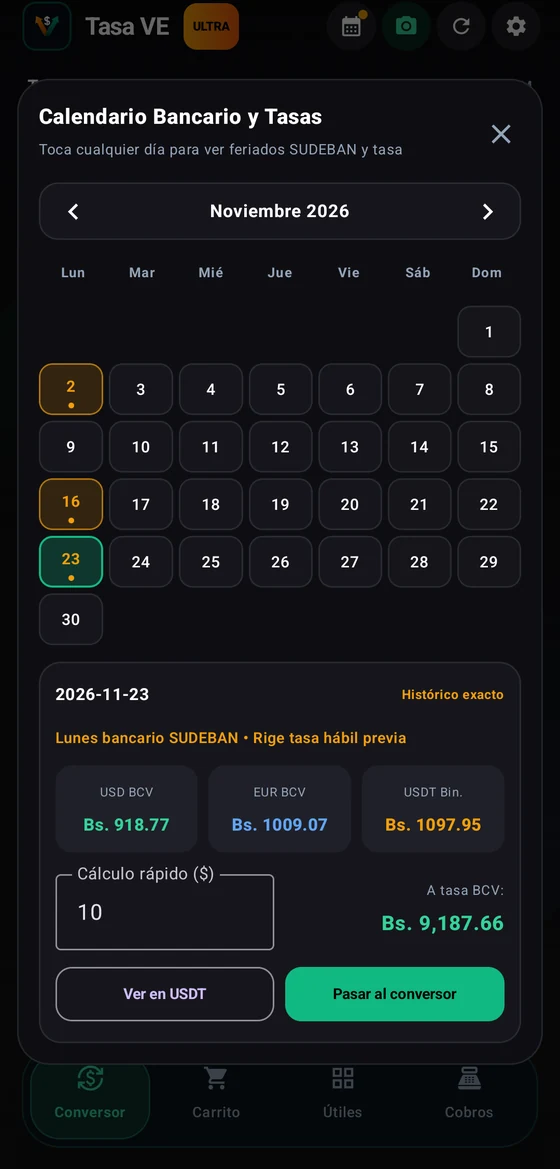
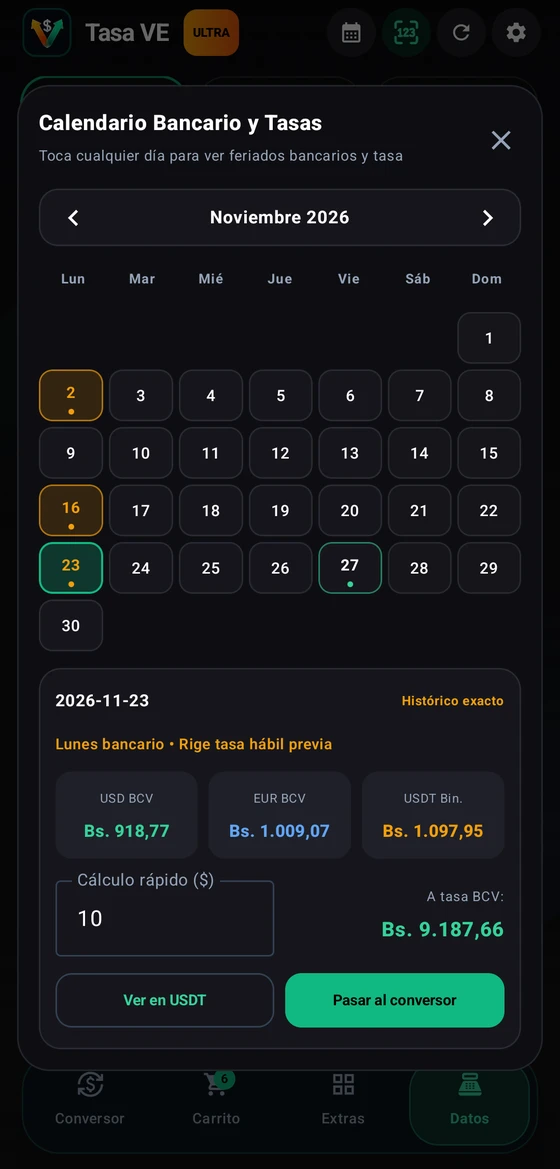
feat: rename Utiles tab to Extras, trim repetitive web disclaimers, refresh all 7 emulator marketing screenshots with zero personal data

diff --git a/docs/index.html b/docs/index.html
@@ -42,7 +42,7 @@
   <link rel="preconnect" href="https://fonts.googleapis.com">
   <link rel="preconnect" href="https://fonts.gstatic.com" crossorigin>
   <link href="https://fonts.googleapis.com/css2?family=Plus+Jakarta+Sans:wght@400;500;600;700;800&display=swap" rel="stylesheet">
-  <link rel="stylesheet" href="styles.css?v=20261126e">
+  <link rel="stylesheet" href="styles.css?v=20261127">
 
   <!-- JSON-LD Structured Data (SoftwareApplication + WebSite + FAQPage for Rich SEO) -->
   <script type="application/ld+json">
@@ -250,16 +250,16 @@
                     <svg viewBox="0 0 22 12" width="17" height="9" fill="none"><rect x="0.75" y="1.25" width="17.5" height="9.5" rx="2.5" stroke="currentColor" stroke-width="1.3"/><rect x="2.6" y="3" width="13.8" height="6" rx="1.2" fill="currentColor"/><rect x="19.5" y="4" width="1.8" height="4" rx="0.8" fill="currentColor"/></svg>
                   </span>
                 </div>
-                <img id="hero-device-img" src="assets/screens/screen_conversor.webp" alt="Captura real del conversor multitasa de Tasa VE" width="560" height="1169" fetchpriority="high">
+                <img id="hero-device-img" src="assets/screens/screen_conversor.webp?v=20261127" alt="Captura real del conversor multitasa de Tasa VE" width="560" height="1169" fetchpriority="high">
                 <div class="device-homebar" aria-hidden="true"><span></span></div>
               </div>
             </div>
 
             <div class="hero-screen-dock" role="tablist" aria-label="Capturas reales de Tasa VE">
-              <button type="button" class="dock-btn is-active" data-hero-screen="assets/screens/screen_conversor.webp" data-hero-alt="Captura real del conversor multitasa de Tasa VE">Conversor</button>
-              <button type="button" class="dock-btn" data-hero-screen="assets/screens/screen_cobros.webp" data-hero-alt="Captura real de la sección Datos y cálculos mixtos en Tasa VE">Datos</button>
-              <button type="button" class="dock-btn" data-hero-screen="assets/screens/screen_flotante.webp" data-hero-alt="Acceso rápido flotante real de Tasa VE sobre WhatsApp">Acceso flotante</button>
-              <button type="button" class="dock-btn" data-hero-screen="assets/screens/screen_tarjeta.webp" data-hero-alt="Instrucciones de pago personalizadas generadas por Tasa VE">Instrucciones</button>
+              <button type="button" class="dock-btn is-active" data-hero-screen="assets/screens/screen_conversor.webp?v=20261127" data-hero-alt="Captura real del conversor multitasa de Tasa VE">Conversor</button>
+              <button type="button" class="dock-btn" data-hero-screen="assets/screens/screen_cobros.webp?v=20261127" data-hero-alt="Captura real de la sección Datos y cálculos mixtos en Tasa VE">Datos</button>
+              <button type="button" class="dock-btn" data-hero-screen="assets/screens/screen_flotante.webp?v=20261127" data-hero-alt="Acceso rápido flotante real de Tasa VE">Acceso flotante</button>
+              <button type="button" class="dock-btn" data-hero-screen="assets/screens/screen_tarjeta.webp?v=20261127" data-hero-alt="Instrucciones de pago personalizadas generadas por Tasa VE">Instrucciones</button>
             </div>
           </div>
         </div>
@@ -299,7 +299,7 @@
       <div class="container">
         <header class="section-intro">
           <h2>Diseñada para tus cálculos diarios en Venezuela</h2>
-          <p>Capturas reales de la aplicación. Apta para todo público —desde tus compras cotidianas hasta emprendedores y pequeños comerciantes—. Tasa VE solo calcula y organiza montos; nunca maneja dinero ni ejecuta transacciones.</p>
+          <p>Capturas reales de la aplicación. Pensada para todo público —desde tus compras cotidianas hasta emprendedores y pequeños comerciantes—.</p>
         </header>
 
         <div class="bento-grid">
@@ -314,9 +314,9 @@
                   y comparte tus instrucciones de pago personalizadas acompañadas únicamente de los datos necesarios para autocompletar en BDV, Banesco, Mercantil o Bancamiga al hacer o recibir un pago.
                 </p>
                 <div class="bento-switcher" data-spotlight-group="bento-pay">
-                  <button type="button" class="mini-pill is-active" data-src="assets/screens/screen_cobros.webp" data-alt="Sección Datos y cálculos mixtos real de Tasa VE">Datos</button>
-                  <button type="button" class="mini-pill" data-src="assets/screens/screen_tarjeta.webp" data-alt="Instrucciones de pago personalizadas generadas por Tasa VE">Instrucciones</button>
-                  <button type="button" class="mini-pill" data-src="assets/screens/screen_flotante.webp" data-alt="Acceso rápido flotante sobre WhatsApp en Tasa VE">Acceso flotante</button>
+                  <button type="button" class="mini-pill is-active" data-src="assets/screens/screen_cobros.webp?v=20261127" data-alt="Sección Datos y cálculos mixtos real de Tasa VE">Datos</button>
+                  <button type="button" class="mini-pill" data-src="assets/screens/screen_tarjeta.webp?v=20261127" data-alt="Instrucciones de pago personalizadas generadas por Tasa VE">Instrucciones</button>
+                  <button type="button" class="mini-pill" data-src="assets/screens/screen_flotante.webp?v=20261127" data-alt="Acceso rápido flotante real de Tasa VE">Acceso flotante</button>
                 </div>
               </div>
               <div class="bento-device">
@@ -330,7 +330,7 @@
                         <svg viewBox="0 0 22 12" width="15" height="8" fill="none"><rect x="0.75" y="1.25" width="17.5" height="9.5" rx="2.5" stroke="currentColor" stroke-width="1.3"/><rect x="2.6" y="3" width="13.8" height="6" rx="1.2" fill="currentColor"/><rect x="19.5" y="4" width="1.8" height="4" rx="0.8" fill="currentColor"/></svg>
                       </span>
                     </div>
-                    <img id="bento-pay-img" src="assets/screens/screen_cobros.webp" alt="Sección Datos y cálculos mixtos real de Tasa VE" width="560" height="1169" loading="lazy">
+                    <img id="bento-pay-img" src="assets/screens/screen_cobros.webp?v=20261127" alt="Sección Datos y cálculos mixtos real de Tasa VE" width="560" height="1169" loading="lazy">
                   </div>
                 </div>
               </div>
@@ -355,7 +355,7 @@
                         <svg viewBox="0 0 22 12" width="15" height="8" fill="none"><rect x="0.75" y="1.25" width="17.5" height="9.5" rx="2.5" stroke="currentColor" stroke-width="1.3"/><rect x="2.6" y="3" width="13.8" height="6" rx="1.2" fill="currentColor"/><rect x="19.5" y="4" width="1.8" height="4" rx="0.8" fill="currentColor"/></svg>
                       </span>
                     </div>
-                    <img src="assets/screens/screen_calendario.webp" alt="Calendario Bancario e historial de tasas BCV en Tasa VE" width="560" height="1169" loading="lazy">
+                    <img src="assets/screens/screen_calendario.webp?v=20261127" alt="Calendario Bancario e historial de tasas BCV en Tasa VE" width="560" height="1169" loading="lazy">
                   </div>
                 </div>
               </div>
@@ -380,7 +380,7 @@
                         <svg viewBox="0 0 22 12" width="15" height="8" fill="none"><rect x="0.75" y="1.25" width="17.5" height="9.5" rx="2.5" stroke="currentColor" stroke-width="1.3"/><rect x="2.6" y="3" width="13.8" height="6" rx="1.2" fill="currentColor"/><rect x="19.5" y="4" width="1.8" height="4" rx="0.8" fill="currentColor"/></svg>
                       </span>
                     </div>
-                    <img src="assets/screens/screen_utiles.webp" alt="Recomendación de tasa para pagar en Tasa VE" width="560" height="1169" loading="lazy">
+                    <img src="assets/screens/screen_utiles.webp?v=20261127" alt="Recomendación de tasa para pagar en Tasa VE" width="560" height="1169" loading="lazy">
                   </div>
                 </div>
               </div>
@@ -414,7 +414,7 @@
                         <svg viewBox="0 0 22 12" width="15" height="8" fill="none"><rect x="0.75" y="1.25" width="17.5" height="9.5" rx="2.5" stroke="currentColor" stroke-width="1.3"/><rect x="2.6" y="3" width="13.8" height="6" rx="1.2" fill="currentColor"/><rect x="19.5" y="4" width="1.8" height="4" rx="0.8" fill="currentColor"/></svg>
                       </span>
                     </div>
-                    <img src="assets/screens/screen_carrito.webp" alt="Carrito de compras con cálculo de impuestos aplicables en Tasa VE" width="560" height="1169" loading="lazy">
+                    <img src="assets/screens/screen_carrito.webp?v=20261127" alt="Carrito de compras con cálculo de impuestos aplicables en Tasa VE" width="560" height="1169" loading="lazy">
                   </div>
                 </div>
               </div>
@@ -553,7 +553,7 @@
             <span class="about-kicker">Quiénes somos</span>
             <h2>Una herramienta independiente creada en Venezuela para simplificar tus cálculos diarios</h2>
             <p>
-              Tasa VE nace como un proyecto independiente hecho en Venezuela con un propósito claro: ofrecer a cualquier persona —desde sus compras cotidianas hasta pequeños comerciantes y emprendedores— una calculadora rápida, precisa y transparente para manejar referencias multimoneda en el día a día. Creemos en el software respetuoso: sin cuentas obligatorias, sin manejar tu dinero y manteniendo tus datos únicamente en tu teléfono.
+              Tasa VE nace como un proyecto independiente hecho en Venezuela con un propósito claro: ofrecer a cualquier persona —desde sus compras cotidianas hasta pequeños comerciantes y emprendedores— una calculadora rápida, precisa y transparente para manejar referencias multimoneda en el día a día. Creemos en el software respetuoso: sin cuentas obligatorias y manteniendo tus datos únicamente en tu teléfono.
             </p>
           </div>
           <div class="about-stats">
@@ -767,6 +767,6 @@
     </a>
   </div>
 
-  <script src="app.js?v=20261126e"></script>
+  <script src="app.js?v=20261127"></script>
 </body>
 </html>

diff --git a/app/src/main/java/com/julcer26/tasave/ultra/UltraScreens.kt b/app/src/main/java/com/julcer26/tasave/ultra/UltraScreens.kt
@@ -921,7 +921,7 @@ private fun CartItemEditorDialog(
 
 // =========================================================================
 // =========================================================================
-// TAB 3: ÚTILES (HERRAMIENTAS DEL DÍA A DÍA, ACCESOS RÁPIDOS Y WIDGETS)
+// TAB 3: EXTRAS (HERRAMIENTAS DEL DÍA A DÍA, ACCESOS RÁPIDOS Y WIDGETS)
 // =========================================================================
 private enum class UtilTool(val title: String, val subtitle: String, val analyticsKey: String) {
     COMPARE("¿Con qué pago?", "USDT vs Efectivo/$", "compare_payment"),
@@ -1003,7 +1003,7 @@ fun MarketTab(
         TopBannerAd(isDark = isDark, isUltraUser = isUltraUser, isAdFreePassActive = isAdFreePassActive)
 
         if (selectedTool != null) {
-            // Cabecera ← Volver a Útiles
+            // Cabecera ← Volver a Extras
             Row(
                 modifier = Modifier
                     .fillMaxWidth()
@@ -1017,7 +1017,7 @@ fun MarketTab(
             ) {
                 Icon(
                     imageVector = Icons.AutoMirrored.Filled.ArrowBack,
-                    contentDescription = "Volver a Útiles",
+                    contentDescription = "Volver a Extras",
                     tint = EmeraldLight,
                     modifier = Modifier.size(18.dp)
                 )
@@ -3675,7 +3675,7 @@ fun PlansComparisonDialog(
                     val rows = listOf(
                         listOf("Calculadora exacta BCV y USDT + COP", "✓", "✓"),
                         listOf("BCV Mañana + Calendario Bancario", "✓", "✓"),
-                        listOf("Útiles (¿Con qué pago?, Dividir cuenta)", "✓", "✓"),
+                        listOf("Extras (¿Con qué pago?, Dividir cuenta)", "✓", "✓"),
                         listOf("Cálculo mixto + Instrucciones de pago", "✓", "✓"),
                         listOf("Perfiles bancarios (PM/Banco/Zelle/Bin.)", "1", "∞"),
                         listOf("Carrito inteligente", "5 prod.", "∞ + IVA/IGTF"),

diff --git a/app/src/test/java/com/julcer26/tasave/UltraMathAndBillingTest.kt b/app/src/test/java/com/julcer26/tasave/UltraMathAndBillingTest.kt
@@ -185,7 +185,8 @@ class UltraMathAndBillingTest {
         assertEquals("J-123456789", profile.formattedDoc())
         assertEquals("0412-5551234", profile.formattedPhone())
         assertEquals("Mi Comercio", profile.displayTitle())
-        assertEquals("Útiles", AppTab.MARKET.label)
+        assertEquals("Extras", AppTab.MARKET.label)
+        assertEquals("Datos", AppTab.CHECKOUT.label)
 
         val zelleProfile = PaymentMethodProfile(
             id = 2L,

diff --git a/app/src/main/java/com/julcer26/tasave/feedback/FeedbackReporter.kt b/app/src/main/java/com/julcer26/tasave/feedback/FeedbackReporter.kt
@@ -45,7 +45,7 @@ object FeedbackReporter {
         "Conversor",
         "Escáner OCR",
         "Carrito",
-        "Útiles / Widgets",
+        "Extras / Widgets",
         "Datos / Instrucciones de pago",
         "Otro"
     )

diff --git a/app/src/main/java/com/julcer26/tasave/ultra/UltraModels.kt b/app/src/main/java/com/julcer26/tasave/ultra/UltraModels.kt
@@ -5,7 +5,7 @@ import androidx.compose.runtime.Immutable
 enum class AppTab(val label: String) {
     CONVERTER("Conversor"),
     CART("Carrito"),
-    MARKET("Útiles"),
+    MARKET("Extras"),
     CHECKOUT("Datos")
 }
 
